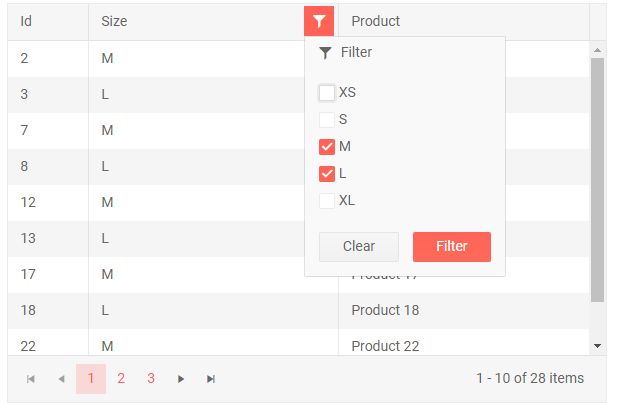
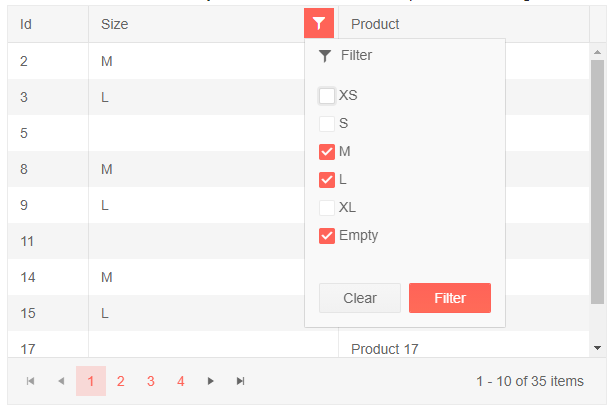
docs(grid): filter menu template null handling sample

diff --git a/components/grid/templates/filter.md b/components/grid/templates/filter.md
@@ -181,6 +181,7 @@ You can store a reference to each column's context in a field in the view-model,
 The example below shows a custom filter that:
 
 * Implements a multi checkbox filter that lets the user choose several values from the data source.
+    * Shows how you can handle `null` filters now that the user cannot choose a filter operator on their own.
 * Shows how you can store a reference to the context or use it inline in the template.
 * Showcases building multiple filter descriptors for each value the user chooses.
 
@@ -218,7 +219,14 @@ This custom filter menu lets you choose more than one option to match against th
                                          Id="@($"size_{size}")">
                         </TelerikCheckBox>
                         <label for="@($"size_{size}")">
-                            @size
+                            @if (size == null) // part of handling nulls - show meaningful text for the end user
+                            {
+                                <text>Empty</text>
+                            }
+                            else 
+                            {
+                                @size
+                            }
                         </label>
                     </div>
                 }
@@ -236,6 +244,19 @@ This custom filter menu lets you choose more than one option to match against th
     public bool IsCheckboxInCurrentFilter(CompositeFilterDescriptor filterDescriptor, string size)
     {
         // get all current filter descriptors and evaluate whether to select the current checkbox
+        // the default value for string filter descriptors is null so it would select the null checkbox always
+        // so we will add a check to ensure it matches the desired operator - IsNull (see the UpdateCheckedSizes method below)
+        if (size == null)
+        {
+            foreach (FilterDescriptor item in filterDescriptor.FilterDescriptors)
+            {
+                if(item.Operator == FilterOperator.IsNull)
+                {
+                    return true;
+                }
+            }
+            return false;
+        }
         return filterDescriptor.FilterDescriptors.Select(f => (f as FilterDescriptor).Value?.ToString()).ToList().Contains(size);
     }
 
@@ -259,10 +280,20 @@ This custom filter menu lets you choose more than one option to match against th
         filterDescriptor.FilterDescriptors.Clear();
         // use the OR logical operator so we include all possible values
         filterDescriptor.LogicalOperator = FilterCompositionLogicalOperator.Or;
-        CheckedSizes.ForEach(s =>
+        CheckedSizes.ForEach(s => {
             // instantiate a filter descriptor for the desired field, and with the desired operator and value
-            filterDescriptor.FilterDescriptors.Add(new FilterDescriptor("Size", FilterOperator.IsEqualTo, s))
-        );
+            FilterDescriptor fd = new FilterDescriptor("Size", FilterOperator.IsEqualTo, s);
+            // set its type to the field type you filter (the Size field in this example)
+            fd.MemberType = typeof(string);
+            // handle null values - use a specific filter operator that the user cannot select on their own
+            // in this custom filter template (the grid has it in a dropdown by default)
+            if(s == null)
+            {
+                fd.Operator = FilterOperator.IsNull;
+            }
+
+            filterDescriptor.FilterDescriptors.Add(fd);
+        });
 
         //ensure there is at least one blank filter to avoid null reference exceptions
         if (!filterDescriptor.FilterDescriptors.Any())
@@ -293,7 +324,7 @@ This custom filter menu lets you choose more than one option to match against th
         public string ProductName { get; set; }
     }
 
-    public string[] Sizes = new string[] { "XS", "S", "M", "L", "XL" };
+    public string[] Sizes = new string[] { "XS", "S", "M", "L", "XL", null };
 }
 ````
 
